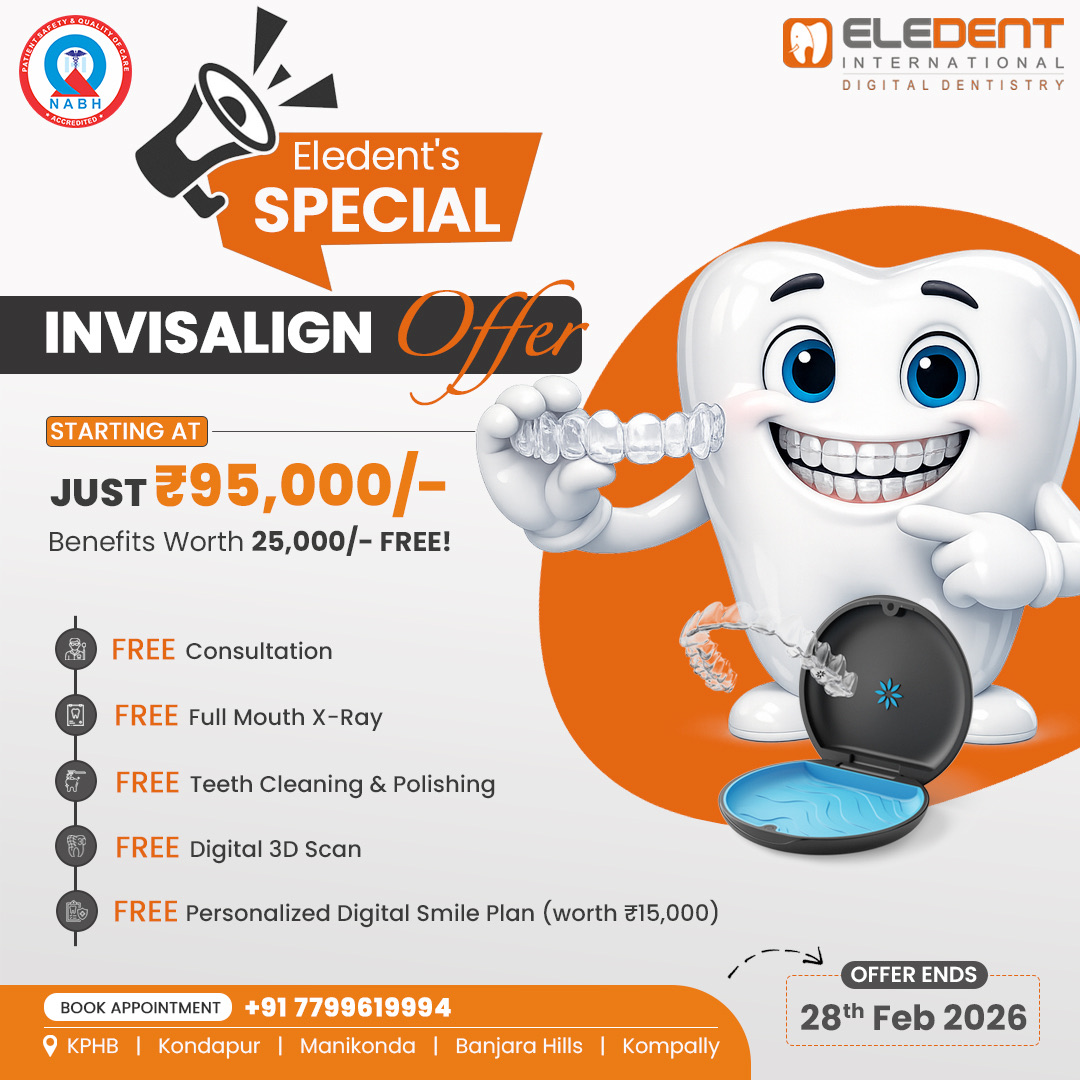
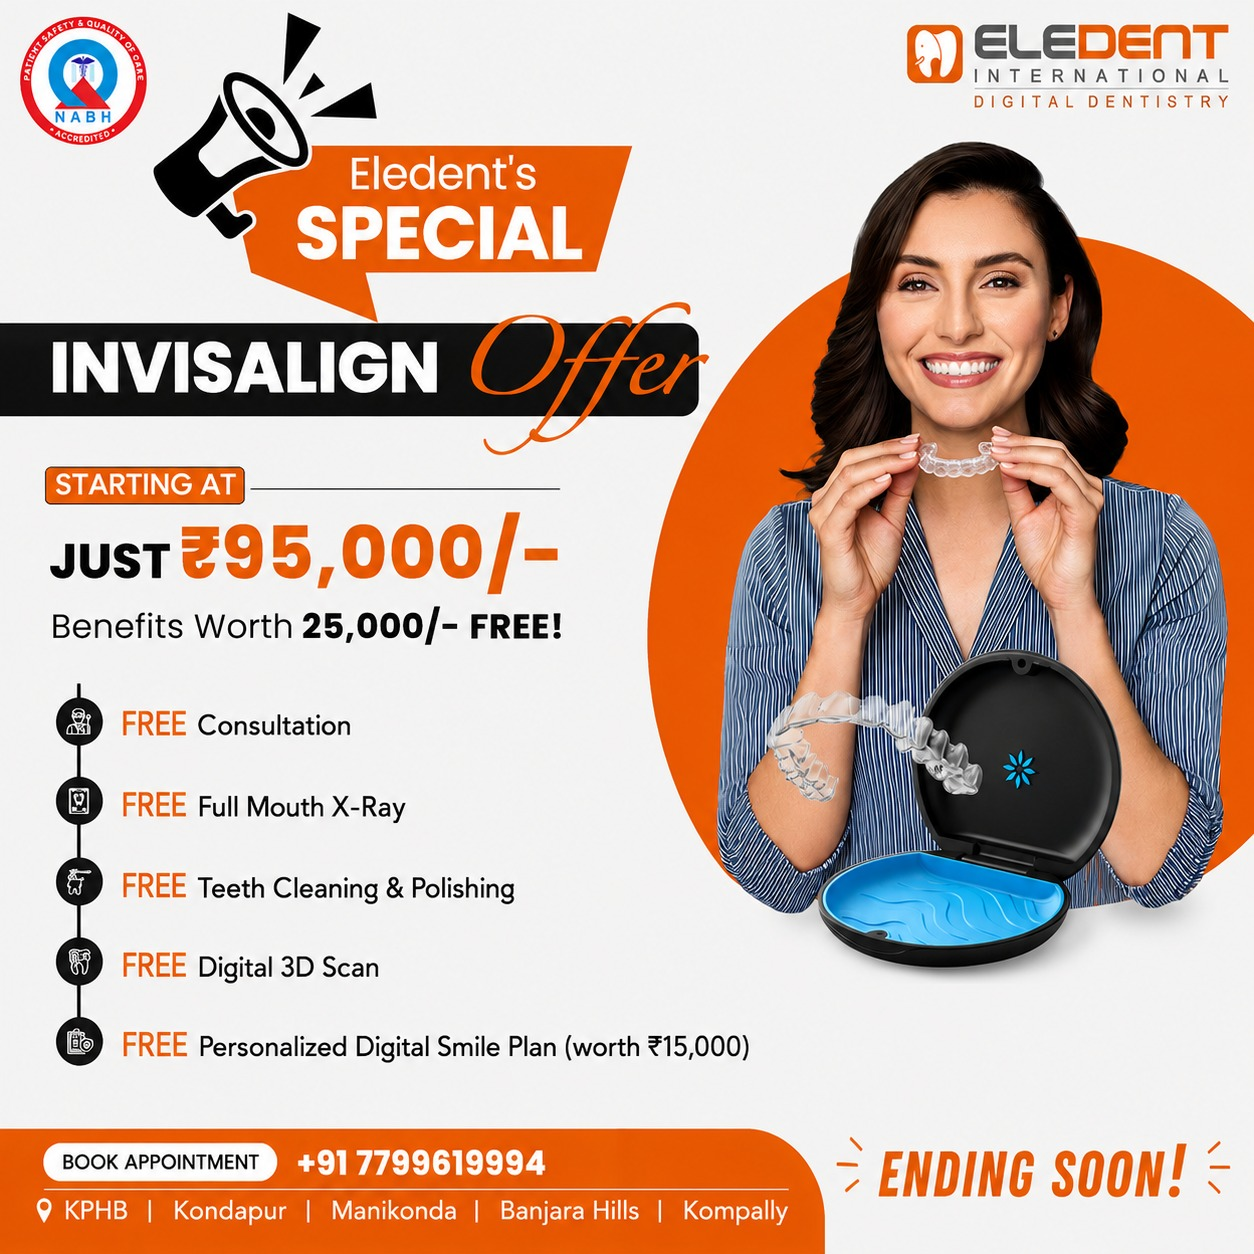
new changes add

diff --git a/public/invisalign/index.html b/public/invisalign/index.html
@@ -100,7 +100,7 @@
                             <li>Free Personalized Digital Smile Plan (worth ₹15,000)</li>
                         </ul>
 
-                        <p><b> Offer Valid Till 28th Feb 2026</b></p>
+                        <p><b> Offer Ending Soon </b></p>
 
 
                         <div class="appointment-header appoint-head">
@@ -455,7 +455,7 @@
                 <!-- Right Image -->
                 <div class="col-lg-6">
                     <div class="why-rgt-img" data-aos="fade-up" data-aos-duration="1000">
-                        <img loading="lazy" decoding="async" src="images/offer-img.webp" alt="why choose" class="img-fluid">
+                        <img loading="lazy" decoding="async" src="images/offer-img.jpg" alt="why choose" class="img-fluid">
                     </div>
                 </div>
             </div>
